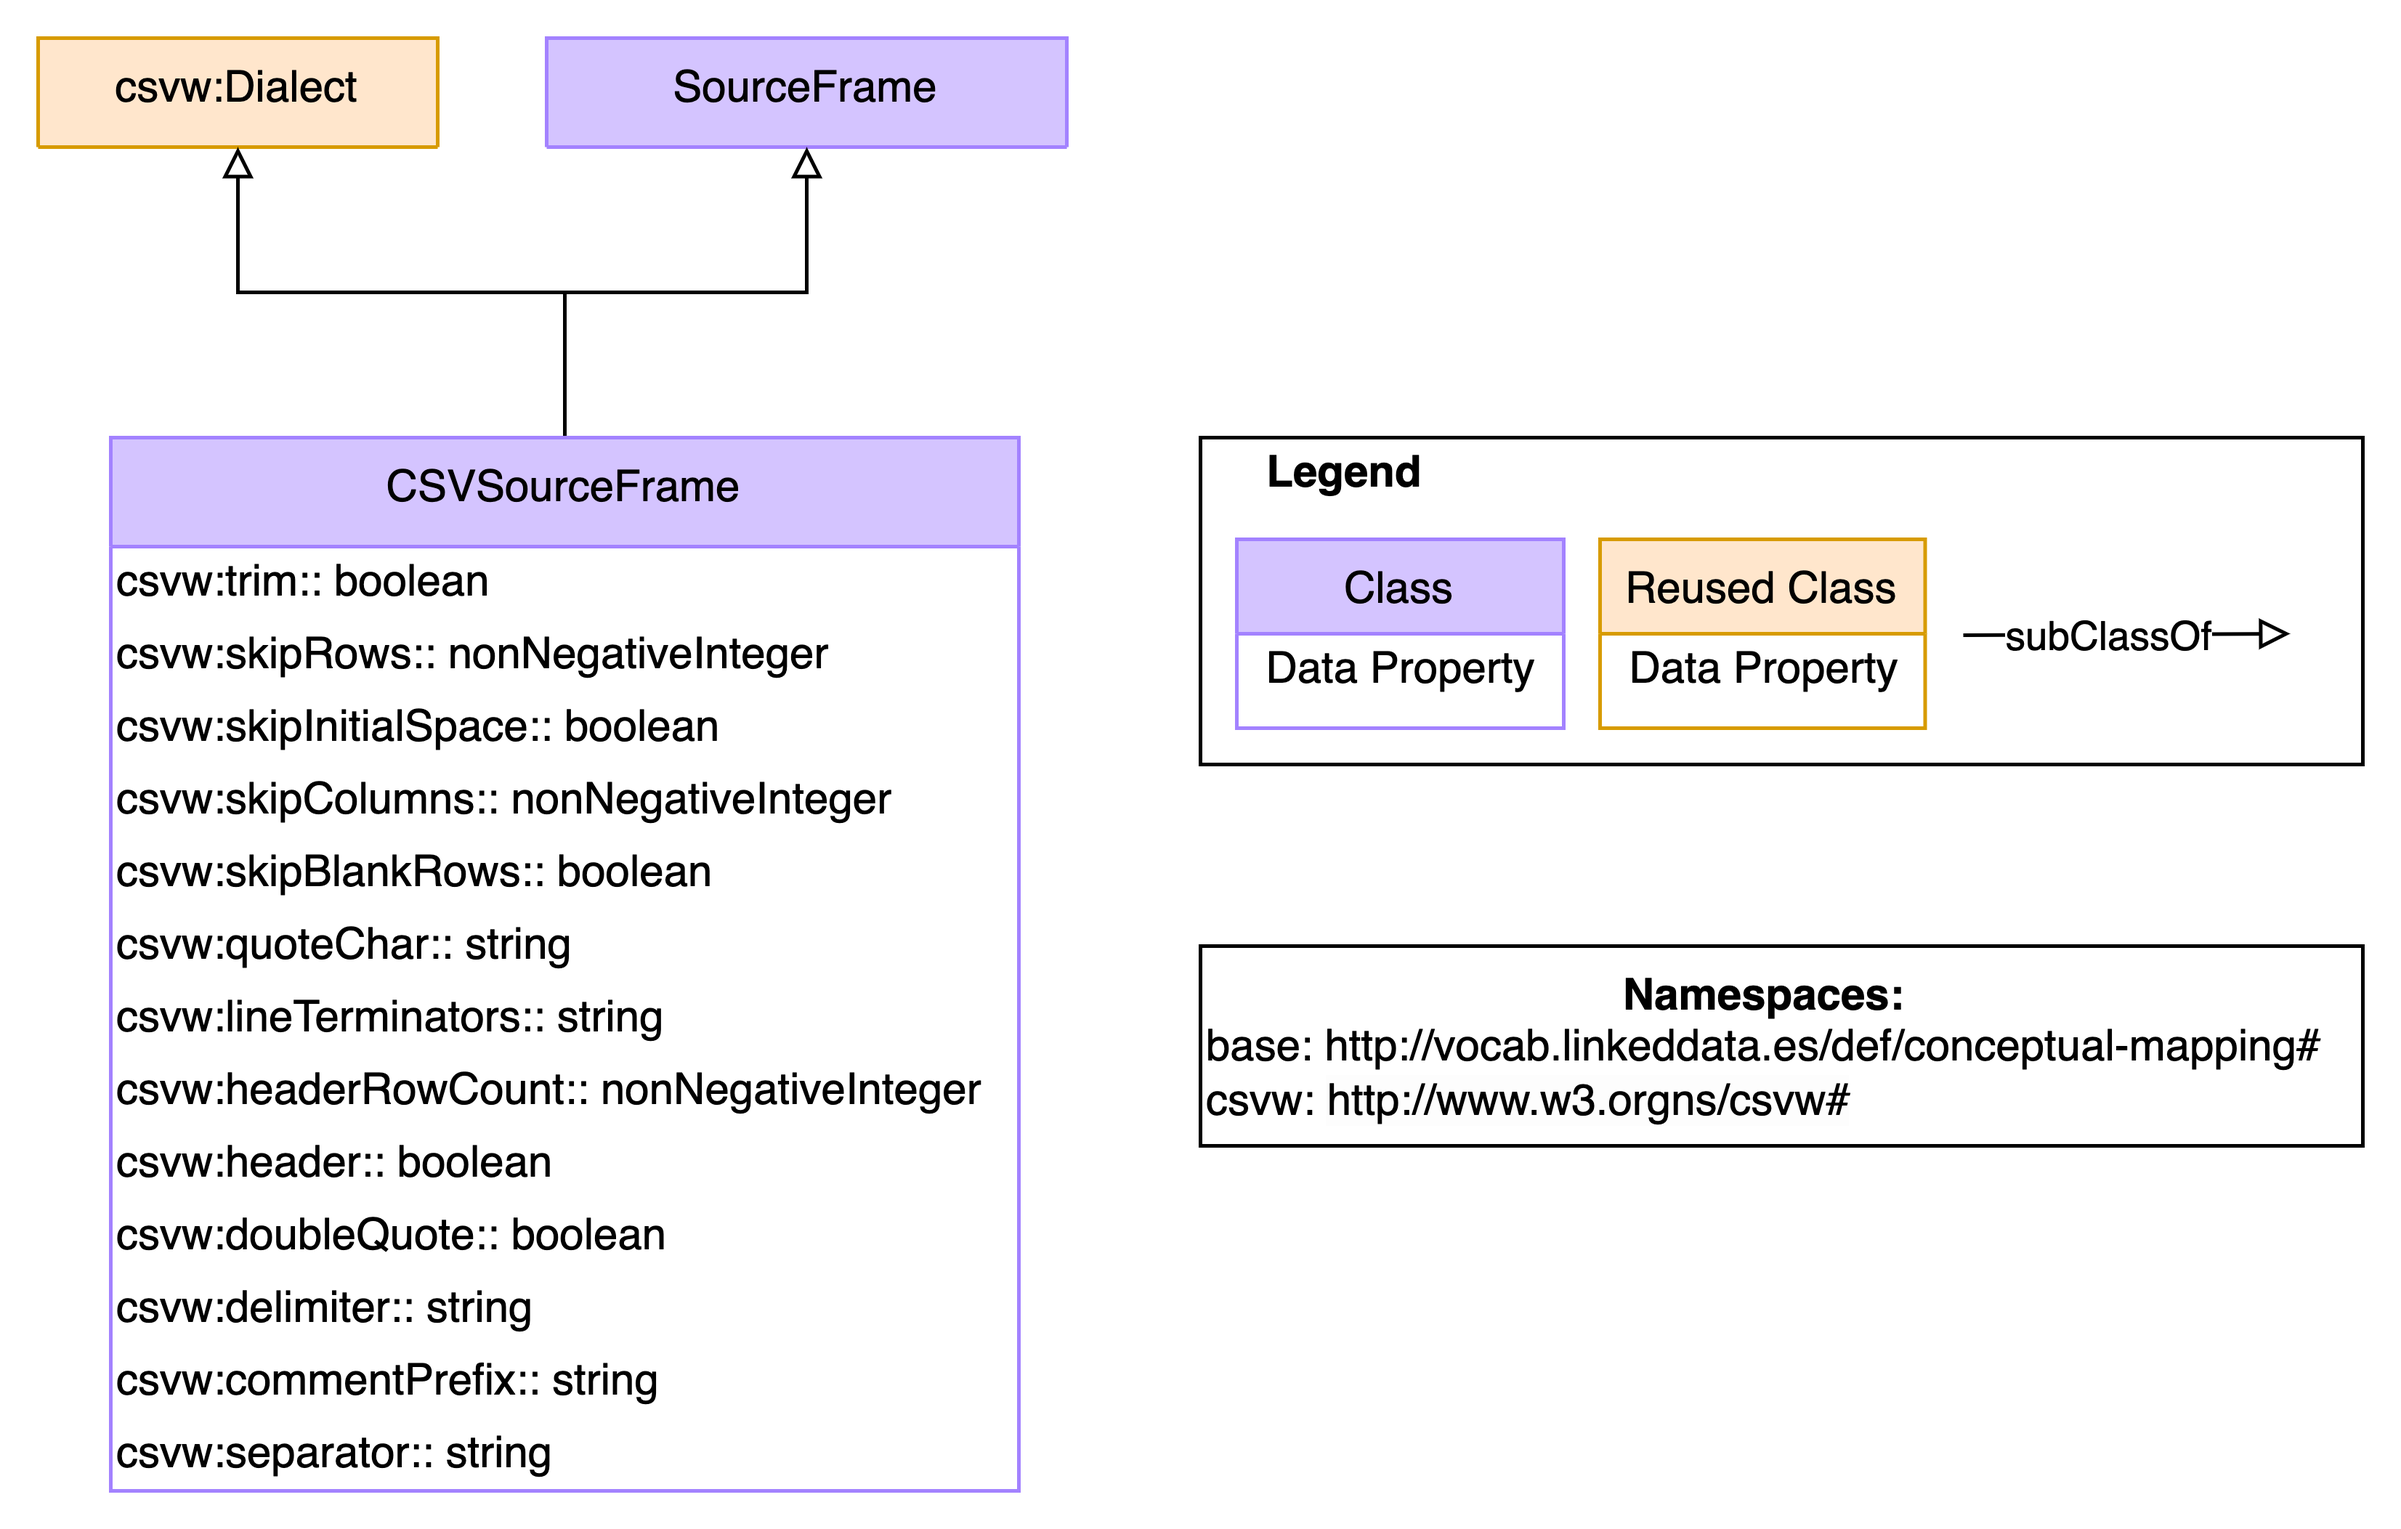
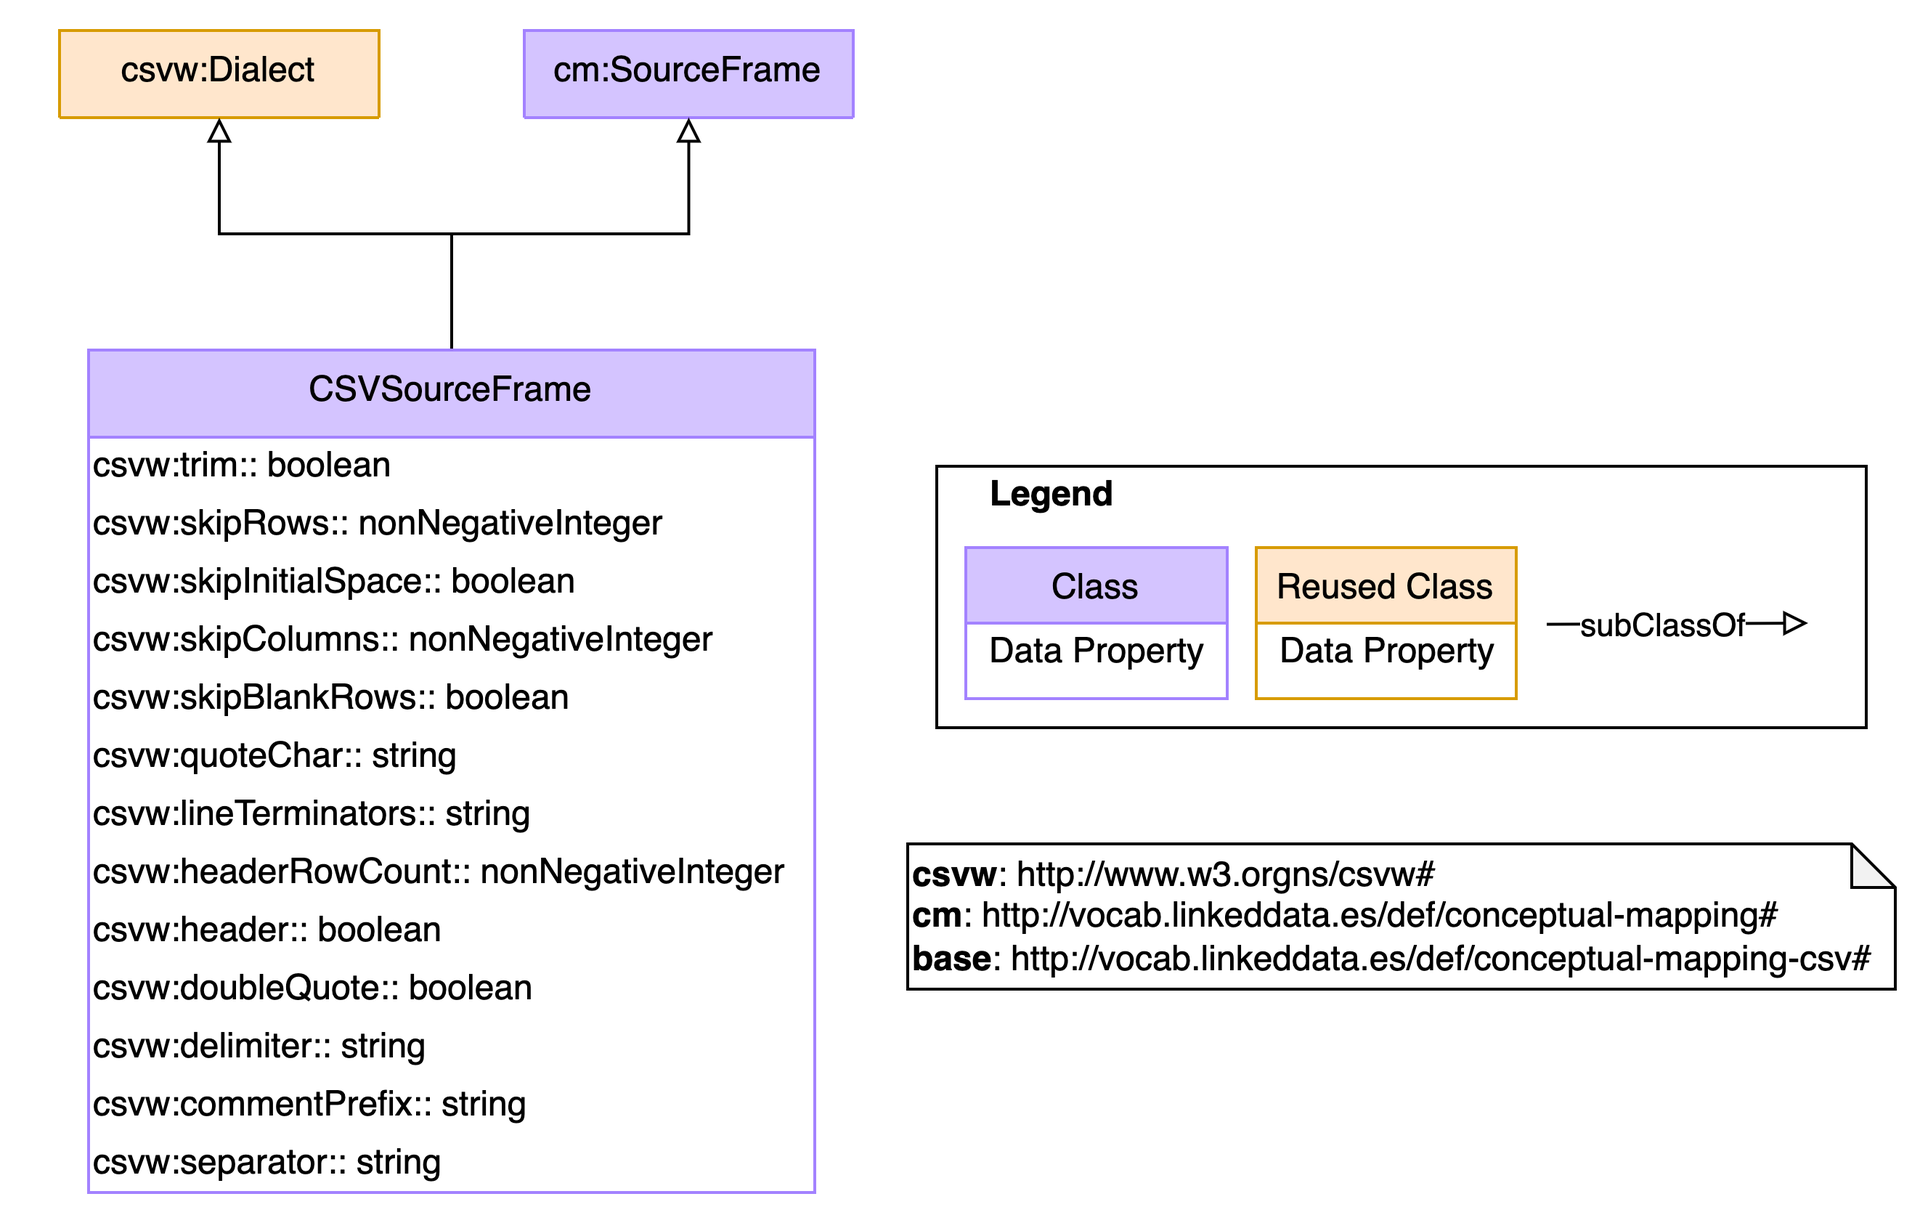
image and urls fixed

diff --git a/OnToology/ontology/conceptual-mapping-csv.owl/documentation/sections/description-en.html b/OnToology/ontology/conceptual-mapping-csv.owl/documentation/sections/description-en.html
@@ -10,5 +10,5 @@ thus it becomes a frame able to describe CSV data sources.
 </span>
 
 <center>
-  <img src="resources/images/CM-CSV-extension.png" alt="General overview of the Conceptual Mapping - CSV description." width="90%"> <figcaption><b>Figure 1.</b> - CSV description.</figcaption>
+  <img src="resources/images/CM-CSV-extension.png" alt="General overview of the Conceptual Mapping - CSV description." width="70%"> <figcaption><b>Figure 1.</b> - CSV description.</figcaption>
 </center>
